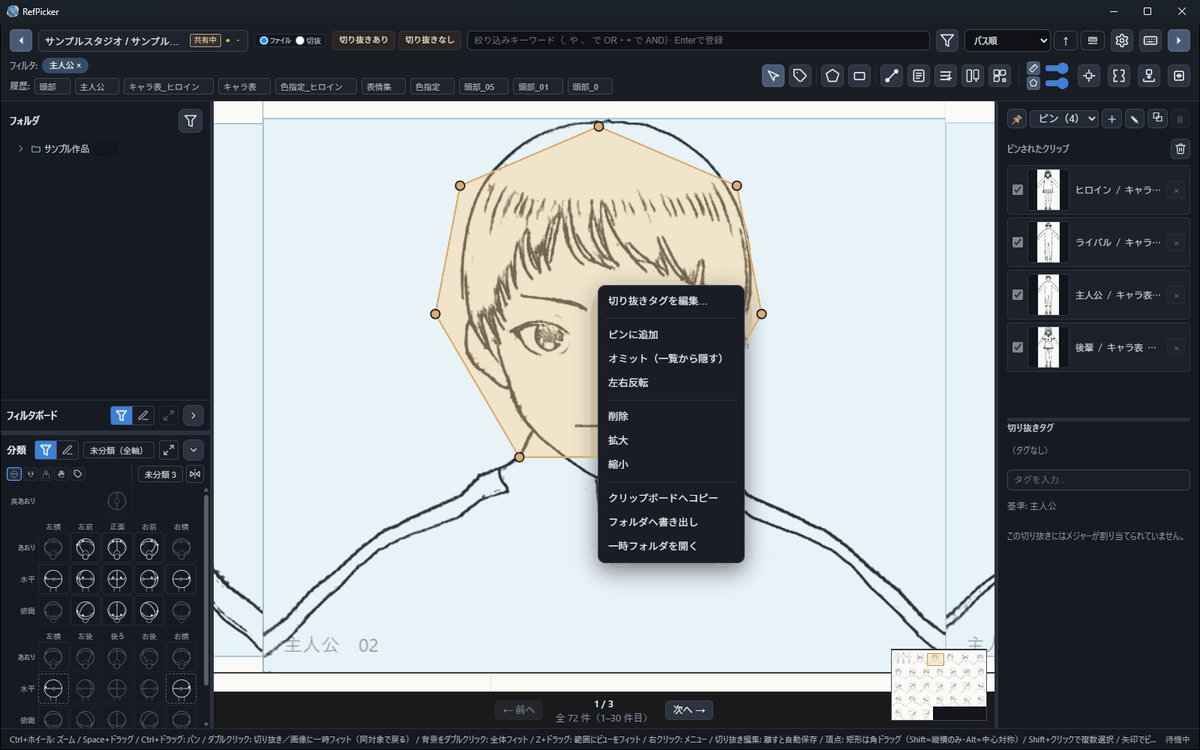
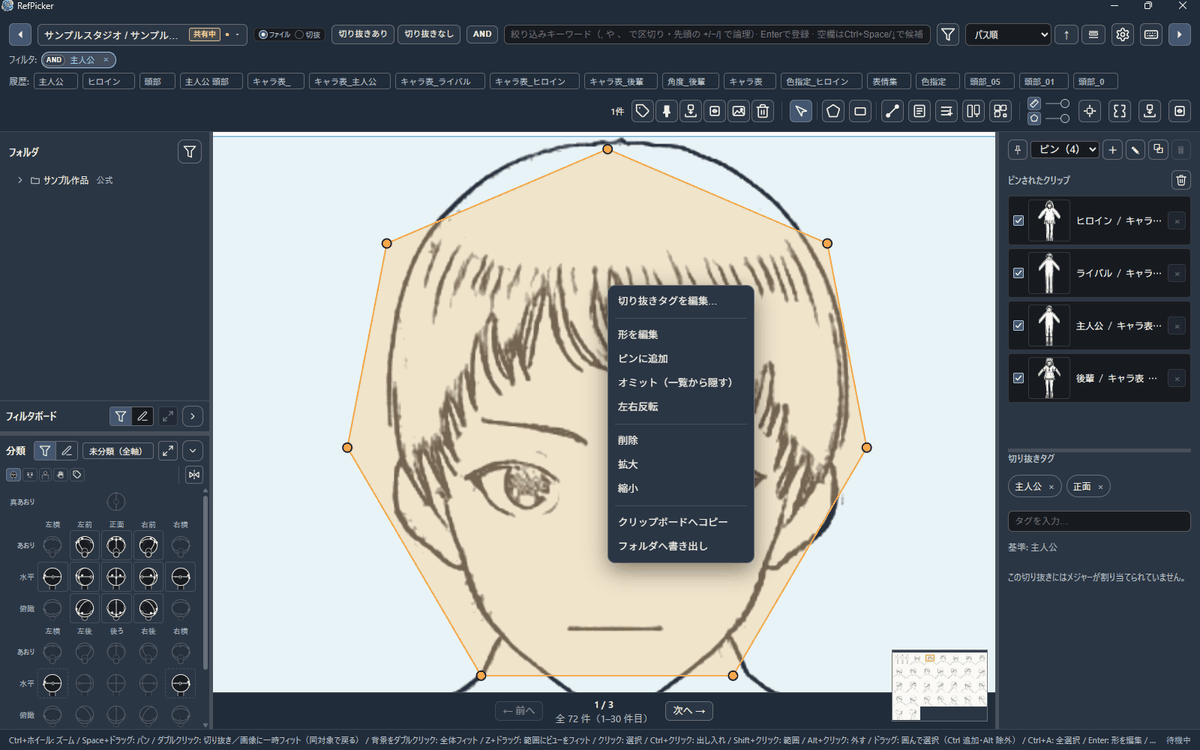
docs: 0.2.0 に合わせて公開文書と図を更新する
フィルタの語の組み合わせ（既定 AND・先頭の +/-/|）、形の編集の入り方、ドラッグの2段階、一時フォルダの廃止、
受け渡し PNG が次の起動で消えること、受け取った公式画像の上は分類タグ無料（LICENSE §4 を含む）を反映し、
CHANGELOG に 0.2.0 を足した。図13枚は 0.2.0（ダーク）で撮り直したもの。
正本は record-for-ai out/crossrefpicker（調整ラウンド 2026-10-01-v020・reflect-drift 差分 0）。

diff --git a/landing/index.html b/landing/index.html
@@ -461,7 +461,7 @@
         </p>
         <div class="steps">
           <div class="step"><span class="n"></span><div class="t"><b>メジャーを割り当てる</b>切り抜きに全身などの基準線を引き、基準キャラとの対比を設定。</div></div>
-          <div class="step"><span class="n"></span><div class="t"><b>ピンして対比表を作成</b>並べたい切り抜きをピンして「ピンで対比表を作成」。共通ベースラインに自動整列。</div></div>
+          <div class="step"><span class="n"></span><div class="t"><b>ピンして対比表を作成</b>並べたい切り抜きをピンして、対比表エディタの「ピングループから追加」。共通ベースラインに自動整列。</div></div>
           <div class="step"><span class="n"></span><div class="t"><b>PNG で配布</b>目盛り・名前ラベル・タイトル・©フッターを焼き込んだ 1 枚の PNG を保存またはドラッグで書き出し。</div></div>
         </div>
       </div>
@@ -623,6 +623,7 @@
           <li><b>自由タグ</b>（自分の言葉で打つタグ）の付与・削除。<b>ひとりで使うなら、ここまでで「探して・切って・並べる」が完結します</b>／クリップボードとフォルダへの書き出し</li>
           <li><b>フィルタボード 1 枚</b>（よく使う絞り込み条件の文字列を並べて置けるテーブル）</li>
           <li><b>自分で作るプロジェクト 1 件</b>＋<b>受け取りは無制限</b>（配られたプロジェクトは 1 件に数えません）</li>
+          <li><b>受け取った資料の上での分類タグの付与・削除</b>（共有元から届いた画像に限ります）</li>
         </ul>
       </div>
       <div class="role">

diff --git a/landing/buy/perpetual.html b/landing/buy/perpetual.html
@@ -41,7 +41,7 @@
   <div class="box">
     <h1>買い切りプランは準備中です</h1>
     <p>買い切りは<strong>完成品を永続的に所有する</strong>形なので、テスト段階で公開しているいまは出していません。価格は実際に現場で使っていただいたフィードバックを踏まえて決めます。</p>
-    <p>いまお使いいただける方法は2つあります。<strong>無料版</strong>（索引化・絞り込み・切り抜き・自由タグ・書き出し・プロジェクト1件、そして<strong>資料の受け取りは件数無制限</strong>）と、<strong>All-Access</strong>（<strong>作っているものを支える購読</strong>。スイート全ツールが開発中のものも含めて使え、7日間の無料トライアル付き）です。</p>
+    <p>いまお使いいただける方法は2つあります。<strong>無料版</strong>（索引化・絞り込み・切り抜き・自由タグ・書き出し・プロジェクト1件、そして<strong>資料の受け取りは件数無制限</strong>、受け取った資料の上での分類タグの付け外し）と、<strong>All-Access</strong>（<strong>作っているものを支える購読</strong>。スイート全ツールが開発中のものも含めて使え、7日間の無料トライアル付き）です。</p>
     <a class="cta" href="subscribe.html">All-Access を見る</a>
     <p style="margin-top:24px"><a href="../">RefPicker トップへ戻る</a></p>
   </div>

diff --git a/CHANGELOG.md b/CHANGELOG.md
@@ -4,6 +4,72 @@
 
 ---
 
+## [0.2.0] - 2026-10-01
+
+### 追加
+
+- **テーマを切り替えられるようにしました。** 設定の「表示」タブの **「テーマ」** で、**「自動（OS に従う）」**／**「ライト」**／**「ダーク」** を選べます。すべてのウィンドウとタイトルバーがその場で切り替わります。資料の画像や、作業面に重ねて描く印の色は変わりません。
+- **分類タグの各軸に「対象外」を足しました。** 顔の写っていない切り抜きや表情の読めない切り抜きに付けると、未分類での絞り込みに出なくなります。**「連続付与」** の画面では `-` キーで付けられます。感情を対象外にすると、目・口も対象外になります。
+- **タググループを追加しました。** 「分類」ペインの「関連」タブで **「グループ編集」** を押すと、自由タグを見出しごとにまとめて並べられます。グループに置いた語は、まだどの切り抜きにも付いていなくても常に表示され、付与モードで押すとそのタグが付きます。グループは共有で受け取ったプロジェクトにも届きます。受け取ったプロジェクトでは編集できません。
+- **選択中の切り抜きへの操作を、ツールバーにまとめました。** 選択ツールの左に、選択件数と、タグ付け・ピン・オミット・反転・ドラッグ・削除のボタンが並びます。
+- **フィルタ語の入力欄にタグの補完を付けました。** 入力中の語に当たるタグを件数付きで出します。空欄のときは `Ctrl+Space` か `↓` で、よく使うタグの一覧を開けます。
+- 「分類」ペインの余白をクリックすると次のタブへ、右クリックすると前のタブへ移れるようにしました。余白にマウスを載せると、移り先のタブ名が出ます。
+- 「関連」タブの並びを、名前順と件数順で切り替えられるようにしました。既定は名前順です。件数順でも、同じフィルタ語で絞っている間は、タグを付け外ししても並びが動きません。
+- **「連続付与」** の画面で、値のボタンに割り当てキーを表示するようにしました。
+- ライセンス画面に、認証したキーの商品名（All-Access／買い切り／スタジオ用）と、**「サブスク・請求の管理（カスタマーポータル）」** へのリンクを出すようにしました。
+
+### 変更
+
+- **フィルタ語は、既定で AND（すべてに当たるもの）で絞り込むようになりました。** これまではすべての語が OR でした。語ごとに AND／OR／NOT（除外）を持ち、チップ左端の印を押すと切り替わります。入力欄の左のボタンで、次に入れる語の既定を選べます。語の先頭に `+` を付けると AND、`-` で NOT、`|` で OR です。
+- `+` は語の区切りではなくなりました。`A+B` は `A` と `+B` の 2 語になります。保存済みの語と履歴は、そのまま読み込めます。
+- **「分類」ペインの絞り込みは、クリックで AND を足すようになりました。** 右クリックで置き換え、`Ctrl`＋クリックで OR、`Alt`＋クリックか中クリックで NOT を足します。選んだ値はフィルタ語と同じ **「フィルタ:」** の行にチップで並び、× で外せます。
+- **「分類」ペインの件数は、いまのフィルタ全体（フィルタ語と分類の選択）で数えるようになりました。** 足すと 0 件になる値は破線の枠で表し、置き換えたときの件数を出します。破線の値をクリックすると置き換えになります。どう押しても 0 件になる値は薄く表示され、押せません。
+- フィルタボード・フィルタ履歴・フォルダツリーは、クリックで置き換え、`Ctrl`＋クリックで OR、`Shift`＋クリックで AND、`Alt`＋クリックで NOT を足します。フィルタボードでは、右クリックで AND、中クリックで NOT も足せます。
+- 「分類」ペインでは、どのタブでも各軸の値の下に [対象外][未分類] のボタンを並べました。未分類のボタンには「？」の図を付けました。「関連」タブのボタンは、他のタブと同じ大きさに揃えました。
+- **一覧の切り抜きの選び方を、一般的なアプリの押し方に揃えました。**
+  - `Shift`＋クリックで範囲選択、`Ctrl`＋クリックで選択への出し入れ、`Alt`＋クリックで選択から外す、`Ctrl+A` で今のページの切り抜きをすべて選択
+  - 切り抜きの上からも、ドラッグで囲んで選べます。`Ctrl`／`Shift` を押すと追加、`Alt` を押すと除外です。
+  - 表示の移動は `Space`＋ドラッグです。`Ctrl`＋ドラッグでの移動はなくなりました。
+  - `ファイル` 表示で切り抜きをクリックしても、形の編集には入りません。形を直すときは `Enter` か、右クリックメニューの **「形を編集」** を使います。編集中は、多角形の内側をドラッグすると移動できます。
+- **切り抜きを他のアプリへドラッグで渡すときは、ツールバーのドラッグのボタンを使うようになりました。** ボタン（**「書き出しを準備」**）を押すと PNG を用意し、用意ができたらボタンを他のアプリへドラッグします。用意している間にもう一度押すと中止します。選択や切り抜きの形を変えると、用意し直しになります。
+- ドラッグで渡したファイルは、常にコピーとして渡します。エクスプローラーでショートカットの作成や移動にはなりません。
+- **クリップボードやドラッグで渡すために書き出した PNG は、次に RefPicker を起動したときに消えます。** 貼り付ける前に RefPicker を起動し直したときは、もう一度コピーしてください。
+- サムネイルと表示用のキャッシュを、起動後やプロジェクトの切り替え後に自動で片付けるようにしました。使われなくなったものだけを消します。
+- 切り抜きの削除（`Delete`／`Backspace`・右クリックメニュー）で、確認を出すようにしました。メジャーの削除と、ピンをすべて外すときにも確認を出します。
+- タグ編集では、付いている分類タグを 1 行に畳み、「分類タグ N」と出すようにしました。押すと開きます。自由タグが先に並びます。
+- **「連続付与」** の画面の「未分類」は、そのタブの軸のどれかに値が無い切り抜きを出すようになりました（表情タブなら感情・目・口のどれか）。「分類済み」のボタンはなくなりました。表情タブでも、最後の軸（口）を付けると次の切り抜きへ進みます。
+- 自動切り抜きの作業中の並びは、ワークスペースを閉じると消えるようにしました。表示単位が `切抜` のときは、自動切り抜きのボタンは画像を送らず、開いているワークスペースを前に出します。送り直すときの確認は、失うもの（採用していない候補・描きかけ）があるときだけ出します。
+- プロジェクトを切り替えると、自動切り抜き・対比表・クリップ正規化のウィンドウを閉じるようにしました。切り替え後に、メイン画面から開き直してください。
+- キーがあるときは入力欄を畳み、**「別のキーに置き換える…」** で開くようにしました。置き換えと解除の前に確認を出します。
+- ライセンス画面は、認証済みなら状態だけを、未認証ならライセンスで使える機能の一覧を出すようにしました。
+- **受け取ったプロジェクトでは、共有元から届いた画像の上なら、ライセンスなしで分類タグを付け外しできるようになりました。** 共有元が 0.2.0 以降で更新を反映した共有が対象です。自分で追加したルートの画像に付けるときは、これまでどおり個人ライセンスが必要です。
+
+### 修正
+
+- 有効なキーなのに、認証から 7 日ほどで有料機能が使えなくなっていたのを直しました。起動時と起動中に、ライセンスを自動で確認します。
+- ライセンスを確認できないまま時間がたったときは、購入の案内ではなく **「ライセンスを再確認」** のボタンを出すようにしました。解約・返金などでキーが無効になったときも、そのことを案内します。
+- RefPicker 用ではないキーで、有料機能が開いてしまうことがあったのを直しました。
+- ライセンスの認証に失敗したときに、英語の生のエラーがそのまま出ていたのを直しました。何が起きたかと次に何をすればよいかを出し、詳細は折りたたんで表示します。
+- タグ編集の「最近」に、別のプロジェクトで付けたタグが出ていたのを直しました。「最近」はプロジェクトごとになり、更新前の履歴は引き継ぎません。
+- タグ編集を開くと、「最近」ではなく「索引」のタブが選ばれていたのを直しました。
+- **「連続付与」** の画面で `Backspace` を押すと、選択中の切り抜きが確認なしで削除されていたのを直しました。
+- 多くの切り抜きを選んでいると、タグ付けや囲んで選ぶ操作が遅くなっていたのを直しました。
+- スキャン中にプロジェクトを切り替えると、切り替え先のプロジェクトの画像と切り抜きが消えることがあったのを直しました。
+- 自動切り抜きのワークスペースを開いたままプロジェクトを切り替えて採用すると、切り替え先の別の画像に切り抜きが作られることがあったのを直しました。
+- 設定でルートの削除や指し直しの確認を待つ間にプロジェクトを切り替えると、切り替え先のルートが操作されることがあったのを直しました。
+- 右クリックメニューを開いたまま、または切り抜きを描きかけのままプロジェクトを切り替えると、切り替え先の画像にピン・オミット・切り抜きが付くことがあったのを直しました。
+- 削除したばかりのメジャーなどを基準メジャーに指定しようとすると、それまでの基準メジャーの指定が消えていたのを直しました。
+- データ保存先を移動したとき、別の PC で既存のデータ保存先を指し直したとき、外付けドライブのドライブ文字が変わったときに、受け取ったプロジェクトと移行で取り込んだプロジェクトの画像が見つからなくなっていたのを直しました。
+- アプリが途中で終了したときに、壊れたサムネイルが残ることがあったのを直しました。
+- 起動するたびにウィンドウが少しずつ大きくなり、画面からはみ出すことがあったのを直しました。前の大きさが画面より大きいときは、画面に収めて開きます。
+- ピン表示から自動切り抜きへ送ると、ピンした画像ではなくフィルタ結果の画像が送られていたのを直しました。ピン表示の画像の上でも、矩形・多角形ツールで切り抜きを作れるようにしました。
+
+### 削除
+
+- 右クリックメニューの「一時フォルダを開く」をなくしました。切り抜きをファイルとして残すときは **「フォルダへ書き出し」** を使ってください。
+
+---
+
 ## [0.1.1] - 2026-09-14
 
 ### 変更

diff --git a/SYNC_GUIDE.md b/SYNC_GUIDE.md
@@ -32,7 +32,7 @@
 | 種別 | どういうプロジェクトか |
 |-----------|----------|
 | **共有元** | 自分で作って編集し、**「共有用に設定」** で更新を反映するプロジェクト（すべてのデータが編集できます） |
-| **受け取り** | パッケージを取り込んで作られたプロジェクト。**配られた切り抜きの形状や同期元タグは変更できません**が、タグの追加・自分の切り抜きの作成・個人ルートの追加はできます。**共有用に設定することはできません** |
+| **受け取り** | パッケージを取り込んで作られたプロジェクト。**配られた切り抜きの形状や同期元タグは変更できません**が、タグの追加・自分の切り抜きの作成・個人ルートの追加はできます。共有元から届いた画像の上なら、分類タグの付け外しもライセンスなしでできます。**共有用に設定することはできません** |
 
 > **原則: いま編集しているプロジェクトは、取り込みで書き換わりません。**
 >
@@ -151,6 +151,7 @@ flowchart TB
 
 - 共有元のデータ（切り抜きの形状・同期元タグ・メジャーなど）は、共有元の最新にそろいます。これらは共有先から変更・削除できません。
 - 手元で足したタグ・自分で作った切り抜き・個人ルートは残ります。共有元がタグを変えても、手元で足したタグは残ります。
+- 共有元から届いた画像の上では、分類タグをライセンスなしで付け外しできます（手元だけに残ります）。対象は、共有元がこの機能のある RefPicker で更新を反映した共有です（[CHANGELOG](CHANGELOG.md)）。
 
 **複数の作品を受け取る（共有先の方へ）**
 

diff --git a/landing/buy/README.md b/landing/buy/README.md
@@ -25,7 +25,7 @@ BUNDLED_LANDING_PUBLIC_ORIGIN=https://animtools.github.io/RefPicker/landing
 
 | ドア | 状態 | 根拠 |
 |---|---|---|
-| `subscribe.html` | **開いている**（checkout へリダイレクト） | ADR 0004 のサブスク条件「解錠される配布物が1本以上実際に取得でき、実際にその配布物で Pro が解錠されること」を **EconTemple が満たしている**（2026-09-02 に v0.10.0-beta を公開し、ダウンロードと SHA-256 照合、実キーでの解錠まで実測）。**RefPicker 自身の段階（test）は条件ではない** |
+| `subscribe.html` | **開いている**（checkout へリダイレクト） | ADR 0004 のサブスク条件「解錠される配布物が1本以上実際に取得でき、実際にその配布物で Pro が解錠されること」を **EconTemple が満たしている**（2026-09-02 に公開した配布物で、ダウンロードと SHA-256 照合、実キーでの解錠まで実測）。**RefPicker 自身の段階（test）は条件ではない** |
 | `perpetual.html` | 準備中（飛ばさない） | 買い切りの条件は「配布物が取得でき、**かつ価格が確定**」。価格は実演のフィードバック後に決める（運用ハブの当該サイクル文書 D3） |
 | `studio.html` | お問い合わせ（飛ばさない） | 組織向けの条件は上記に加え「**テスターのFBが一巡**し致命的な問題がないこと」。実演前なので満たさない（同 D2）。ただし**受け取り側は無料**なので、使い方に辿り着ける形で残す |
 

diff --git a/README.md b/README.md
@@ -79,8 +79,9 @@ RefPicker は、登録したフォルダを**丸ごと索引化**します。あ
 - **配られた資料（共有プロジェクト）を使う側（受け取る側）に、ライセンスは要りません。** 受け取る数にも上限はありません。
   複数のスタジオ・複数の作品から配られても、ライセンス不要で全ての共有プロジェクトを取り込んで開くことができます。（無料枠の「1件」に数えるのは
   **自分で作る**プロジェクトだけで、**受け取ったものは数に入りません**）。
+  受け取った資料では、共有元から届いた画像の上なら**分類タグ**も付け外しできます。
 - **絞り込みや文字列でのタグ付け（自由タグ）はライセンス認証不要で使えます。**
   認証が要るのは**分類タグ**——顔の向き・表情などを**決まった値から選ぶ**タグ——を
-  **付ける／外す**ときだけです（分類タグが付いた資料を受け取れば、その分類タグでの絞り込み利用は可能）。
+  **付ける／外す**ときだけです（受け取った資料の上では要りません。分類タグが付いた資料を受け取れば、その分類タグでの絞り込み利用も可能）。
 - **作ったデータはライセンス失効後も消えません。** 受け取った資料も分類タグもボードもそのまま残り、
   それらでの絞り込みも使い続けられます。

diff --git a/QUICKSTART.md b/QUICKSTART.md
@@ -54,10 +54,7 @@ flowchart LR
 ## 3. 参照を絞り込む
 
 1. 画面上部の **絞り込みキーワード** に語句を入力して **Enter** で確定すると入力した語句が画像のファイルパスやセットされたタグに部分一致した画像が表示されます
-2. 複数の条件は以下のように入力します
-   - **カンマ（`,` `，` `、`）で OR** — `主人公, ヒロイン` → どちらかに当たるもの
-   - **プラス（`+` `＋`）で AND** — `主人公+顔` → 両方に当たるもの
-   - **スペースや中黒では区切られません**
+2. 複数の語は **カンマ（`,` `，` `、`）** で区切ると、すべてに当たるものに絞り込みます（スペースや中黒では区切られません）。OR や除外の組み合わせ方は [USER_GUIDE §3.2](./USER_GUIDE.md#32-フィルタのマッチ対象と語の組み合わせ) を参照してください。
 3. よく使う条件は **履歴** から呼び出せます
 
 ## 4. 並べて一覧表示
